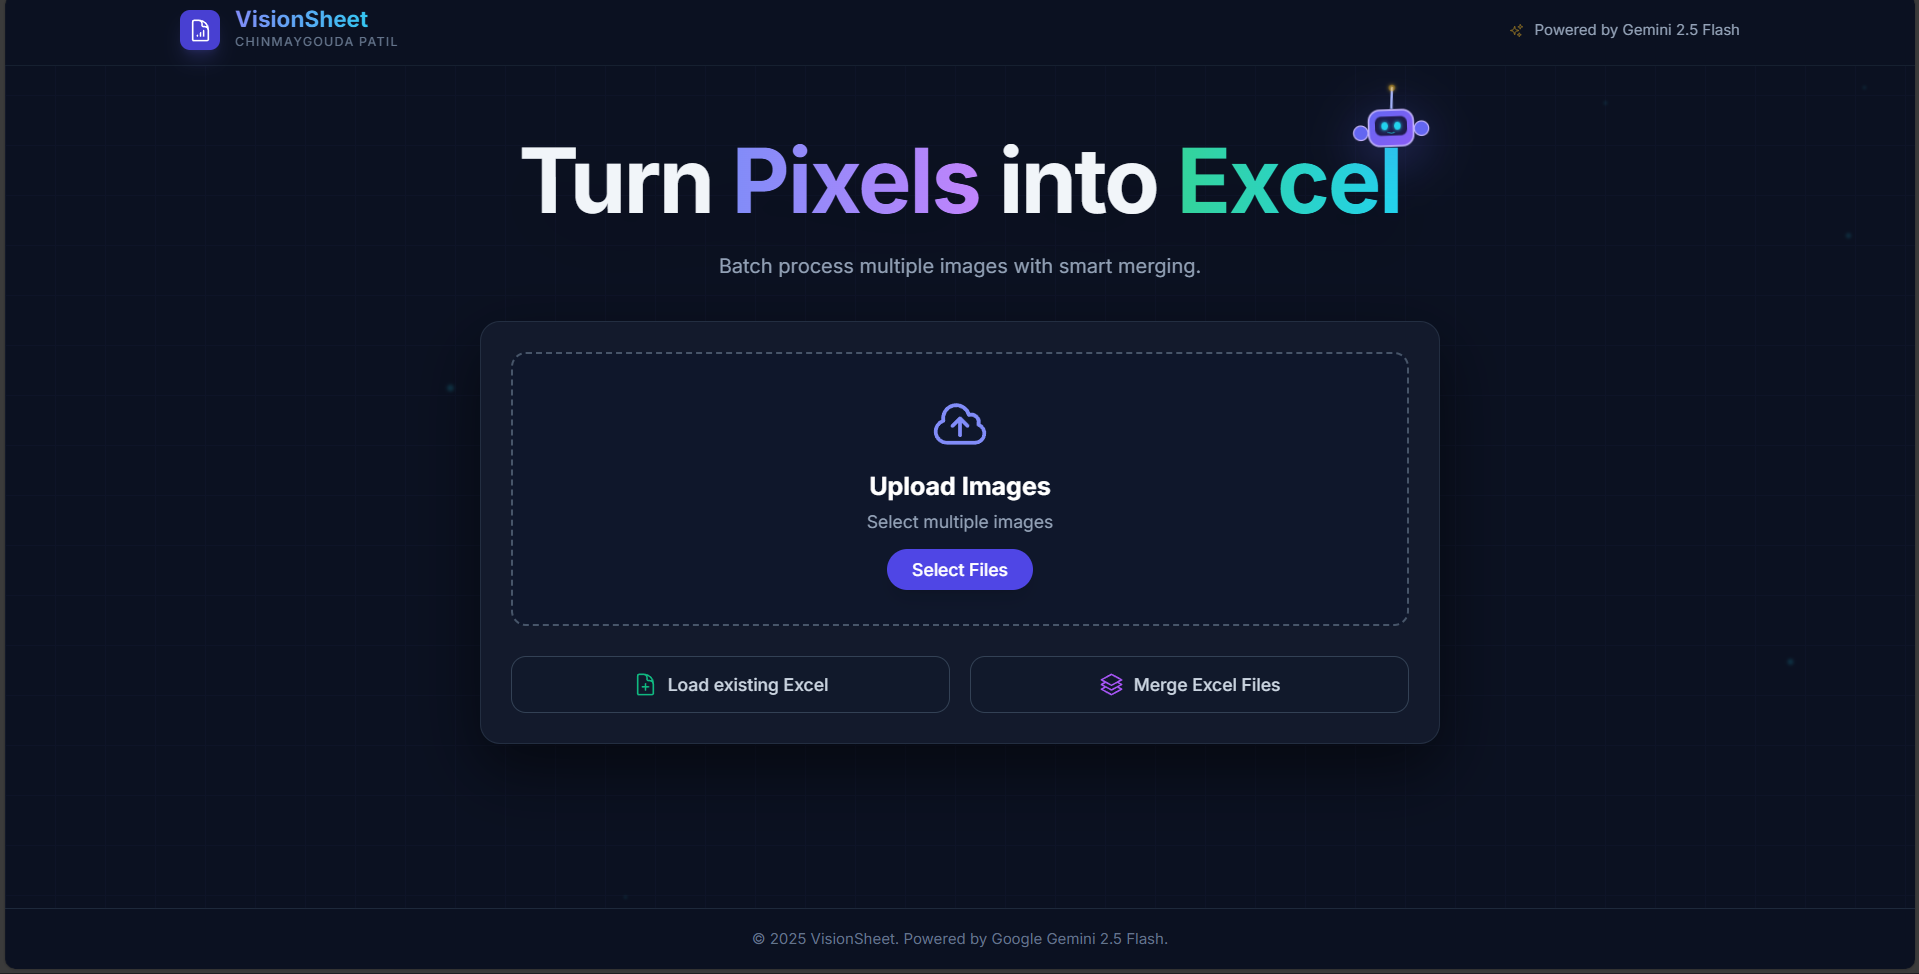
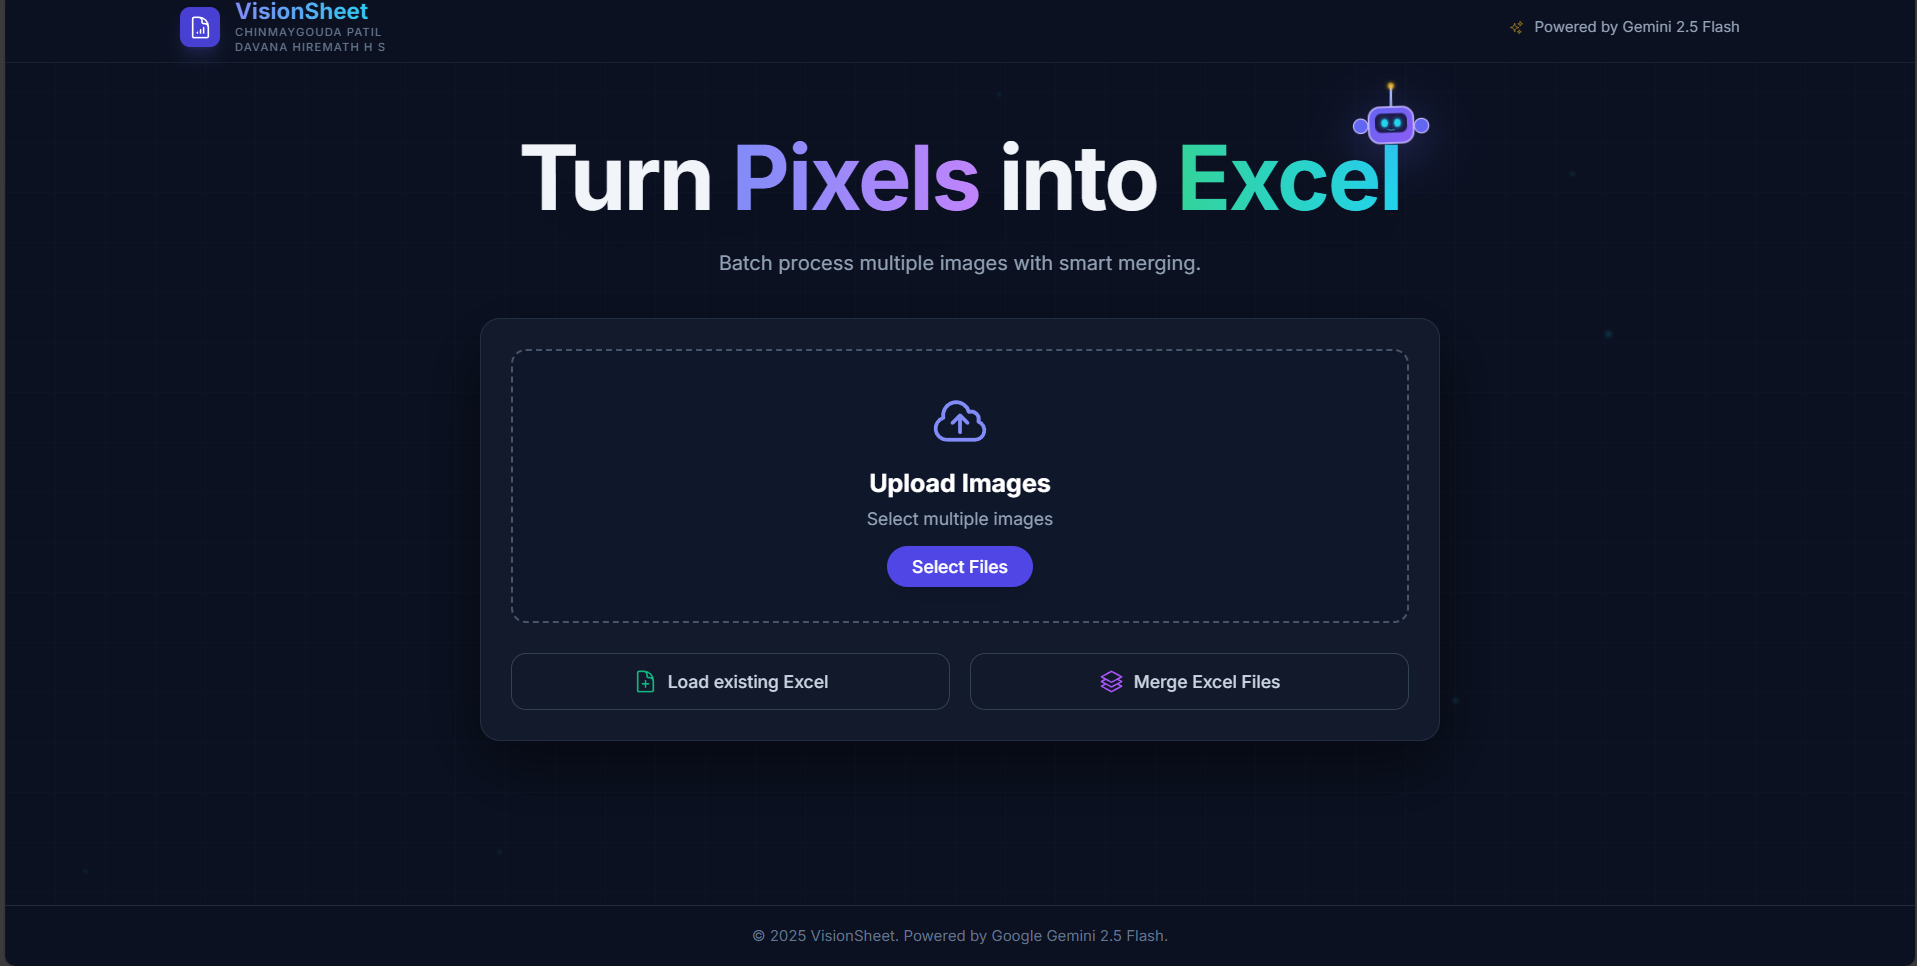
updated app.tsx file and updtae the image in readme

diff --git a/templates/App.tsx b/templates/App.tsx
@@ -142,11 +142,9 @@ const App: React.FC = () => {
             else masterData = mergeTableData(masterData, data);
         }
         setTableData(masterData);
-        setStatus(ProcessingStatus.IDLE);
         setMascotState('success');
     } catch (e) {
         setError("Failed to merge Excel files.");
-        setStatus(ProcessingStatus.ERROR);
         setMascotState('idle');
     }
   };
@@ -156,16 +154,17 @@ const App: React.FC = () => {
   const handleDragOver = (e: React.DragEvent) => { e.preventDefault(); e.stopPropagation(); };
   const handleDrop = (e: React.DragEvent) => { e.preventDefault(); e.stopPropagation(); setIsDragging(false); if (e.dataTransfer.files.length > 0) handleFileSelect(e.dataTransfer.files); };
 
-  // --- HYBRID MERGE LOGIC (Updated for Side-by-Side Separator) ---
+  // --- HYBRID MERGE LOGIC (Side-by-Side or Vertical) ---
   const mergeTableData = (existing: ExtractedTableData, newTable: ExtractedTableData): ExtractedTableData => {
+    // 1. Analyze Similarity
     const headers1 = existing.headers.map(h => h.toLowerCase().trim()).sort().join('|');
     const headers2 = newTable.headers.map(h => h.toLowerCase().trim()).sort().join('|');
     
-    // Check if headers match (Vertical Stack)
+    // Check if headers are identical (or at least same content)
     const isSameStructure = headers1 === headers2;
 
     if (isSameStructure) {
-        // Vertical Merge
+        // --- CASE A: VERTICAL MERGE (Append Rows) ---
         const reorderedNewRows = newTable.rows.map(row => {
             return existing.headers.map(targetH => {
                 const idx = newTable.headers.findIndex(h => h.toLowerCase().trim() === targetH.toLowerCase().trim());
@@ -180,14 +179,23 @@ const App: React.FC = () => {
         };
 
     } else {
-        // Horizontal Side-by-Side Merge with Spacer
+        // --- CASE B: HORIZONTAL MERGE (Side-by-Side with Spacer) ---
+        
+        // 1. Headers: [Existing] + [Spacer] + [New]
         const combinedHeaders = [...existing.headers, "", ...newTable.headers];
+
+        // 2. Rows: Align side by side
         const maxRows = Math.max(existing.rows.length, newTable.rows.length);
         const combinedRows: string[][] = [];
 
         for (let i = 0; i < maxRows; i++) {
+            // Left Side (or blanks if short)
             const leftRow = existing.rows[i] || Array(existing.headers.length).fill("");
+            
+            // Right Side (or blanks if short)
             const rightRow = newTable.rows[i] || Array(newTable.headers.length).fill("");
+
+            // Combine with blank spacer
             combinedRows.push([...leftRow, "", ...rightRow]);
         }
 
@@ -265,14 +273,16 @@ const App: React.FC = () => {
             </motion.div>
             <div className="flex flex-col justify-center">
               <span className="text-lg font-bold bg-clip-text text-transparent bg-gradient-to-r from-indigo-400 to-cyan-400 leading-none mb-0.5">VisionSheet</span>
-              <span className="text-[10px] text-slate-500 font-medium tracking-widest uppercase select-none pointer-events-none">Chinmaygouda Patil</span>
+              {/* UPDATED: Added Collaborator Name */}
+              <span className="text-[9px] text-slate-500 font-medium tracking-widest uppercase select-none pointer-events-none leading-tight">Chinmaygouda Patil</span>
+              <span className="text-[9px] text-slate-500 font-medium tracking-widest uppercase select-none pointer-events-none leading-tight">Davana Hiremath H S</span>
             </div>
           </motion.div>
           <motion.div initial={{ opacity: 0, x: 20 }} animate={{ opacity: 1, x: 0 }} className="text-xs text-slate-400 hidden sm:flex items-center gap-2"><SparklesIcon className="w-3 h-3 text-amber-400 animate-pulse" />Powered by Gemini 2.5 Flash</motion.div>
         </div>
       </nav>
 
-      {/* Increased Top Padding for Robot */}
+      {/* INCREASED TOP PADDING (pt-14) to fix clipped robot */}
       <main className="flex-grow container mx-auto px-4 pt-14 pb-8 flex flex-col items-center relative z-10">
         
         {/* Large Title */}
